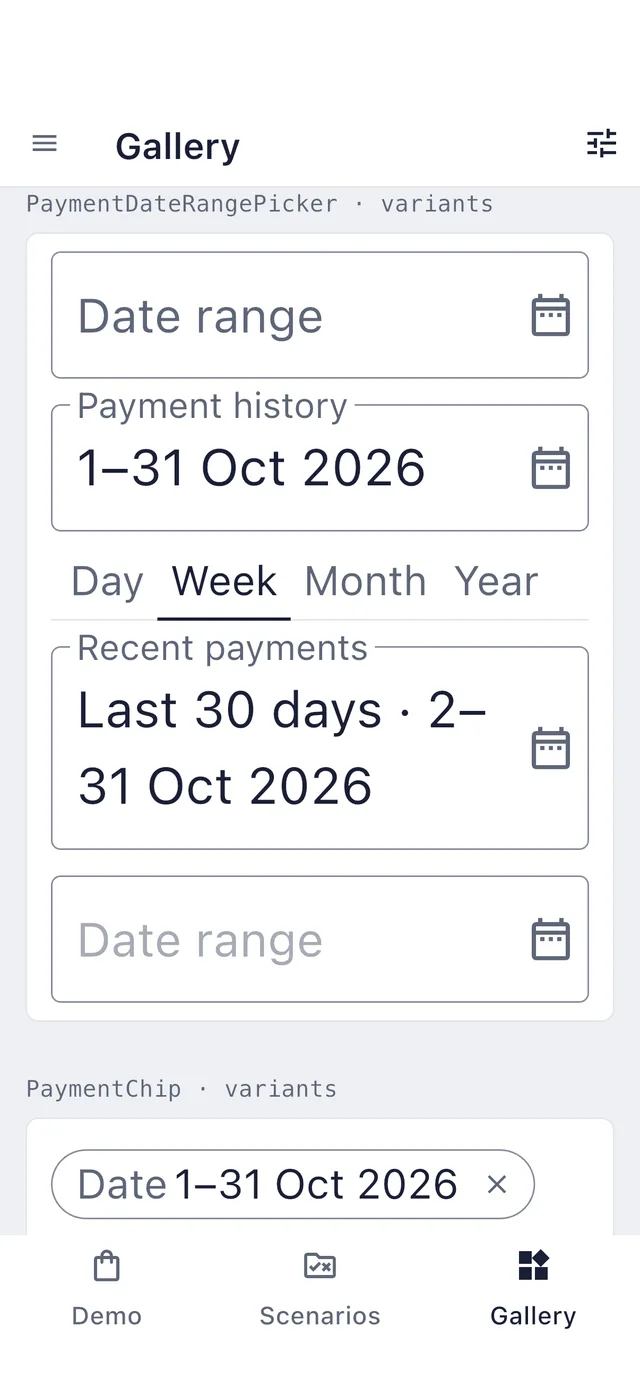
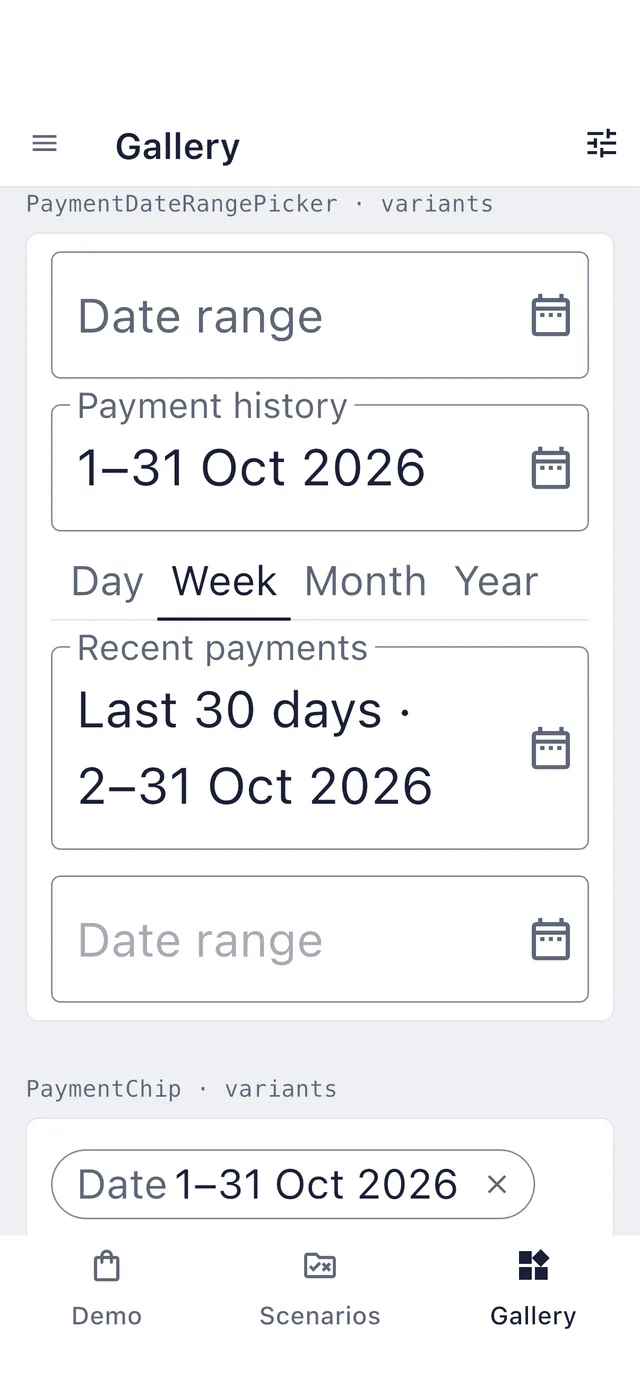
docs(screens): recapture date range looks on P3's date joins

Changed region(s): [[0.125, 0.5255, 0.6875, 0.5873], [0.6562, 0.4946, 0.75, 0.5255]]

diff --git a/docs/decisions.md b/docs/decisions.md
@@ -537,4 +537,4 @@ Problems found in the review are recorded as issues before any work: #45–#50, 
 - **Wheel (D52a).** Three `ListWheelScrollView`s, in the order of `dateInputPattern`, without the magnifier. The item extent is the body line at the current text scale plus 16, so large text grows the wheel instead of clipping it. The day clamps to the month's length. Values outside the range are drawn disabled, and after a fling the columns settle onto the clamped date. Programmatic moves (screen-reader increase / decrease, settling) jump instead of animating under reduced motion. Month names need `PaymentLocalizations.monthName`, a fifth public member next to the four the plan listed: parsing `formatMonthYear` would break on P3's no-break spaces.
 - **Range sheet.** Clear reports `null` and closes, like the presets sheet's "Clear dates". To redo a range, tap again: a tap before the start, or after a complete range, starts over. Apply with only a start reports a one-day range. Typed entry flags a reversed range on the end field and out-of-range dates with "Choose a date from … to …". "Custom range" in the presets sheet is a `PaymentRadio` with a sentinel value that is never the group value: a selected radio ignores taps, and the calendar must reopen to edit a custom range.
 - **#65 form items.** The empty-select height came from the hint: `InputDecorator` keeps the hidden hint's size and, unlike `TextField`, sets no `hintMaxLines`, so a long hint wrapped at 200%. `FieldTrigger` now sets `hintMaxLines: 1`. The field-group rule is 140 dp per field instead of 360 dp per group. The gap between groups lives in the host: `IdentityForm` puts `section` around groups and before its action, and the gallery uses `section` between group specimens. No `PaymentRadioGroup` exists, so the group error follows the documented pattern (last option only) instead of a new API.
-- **Captures.** One catalog session covered the P4 slugs plus `kyc_onboarding` and `history` (folded in from `screenshots_test`, as P2 did with `fees_light`). After inspection the weekday headings touched at 200%; each now has a 2 dp side inset inside a scale-down box, and the affected calendar looks were recaptured.
+- **Captures.** One catalog session covered the P4 slugs plus `kyc_onboarding` and `history` (folded in from `screenshots_test`, as P2 did with `fees_light`). After inspection the weekday headings touched at 200%; each now has a 2 dp side inset inside a scale-down box, and the affected calendar looks were recaptured. After rebasing on P3, a second short session reran flow_test and recaptured the range picker, presets and range calendar with P3's no-break date joins; `history` keeps P3's captures, since P4 doesn't change it at rest.
